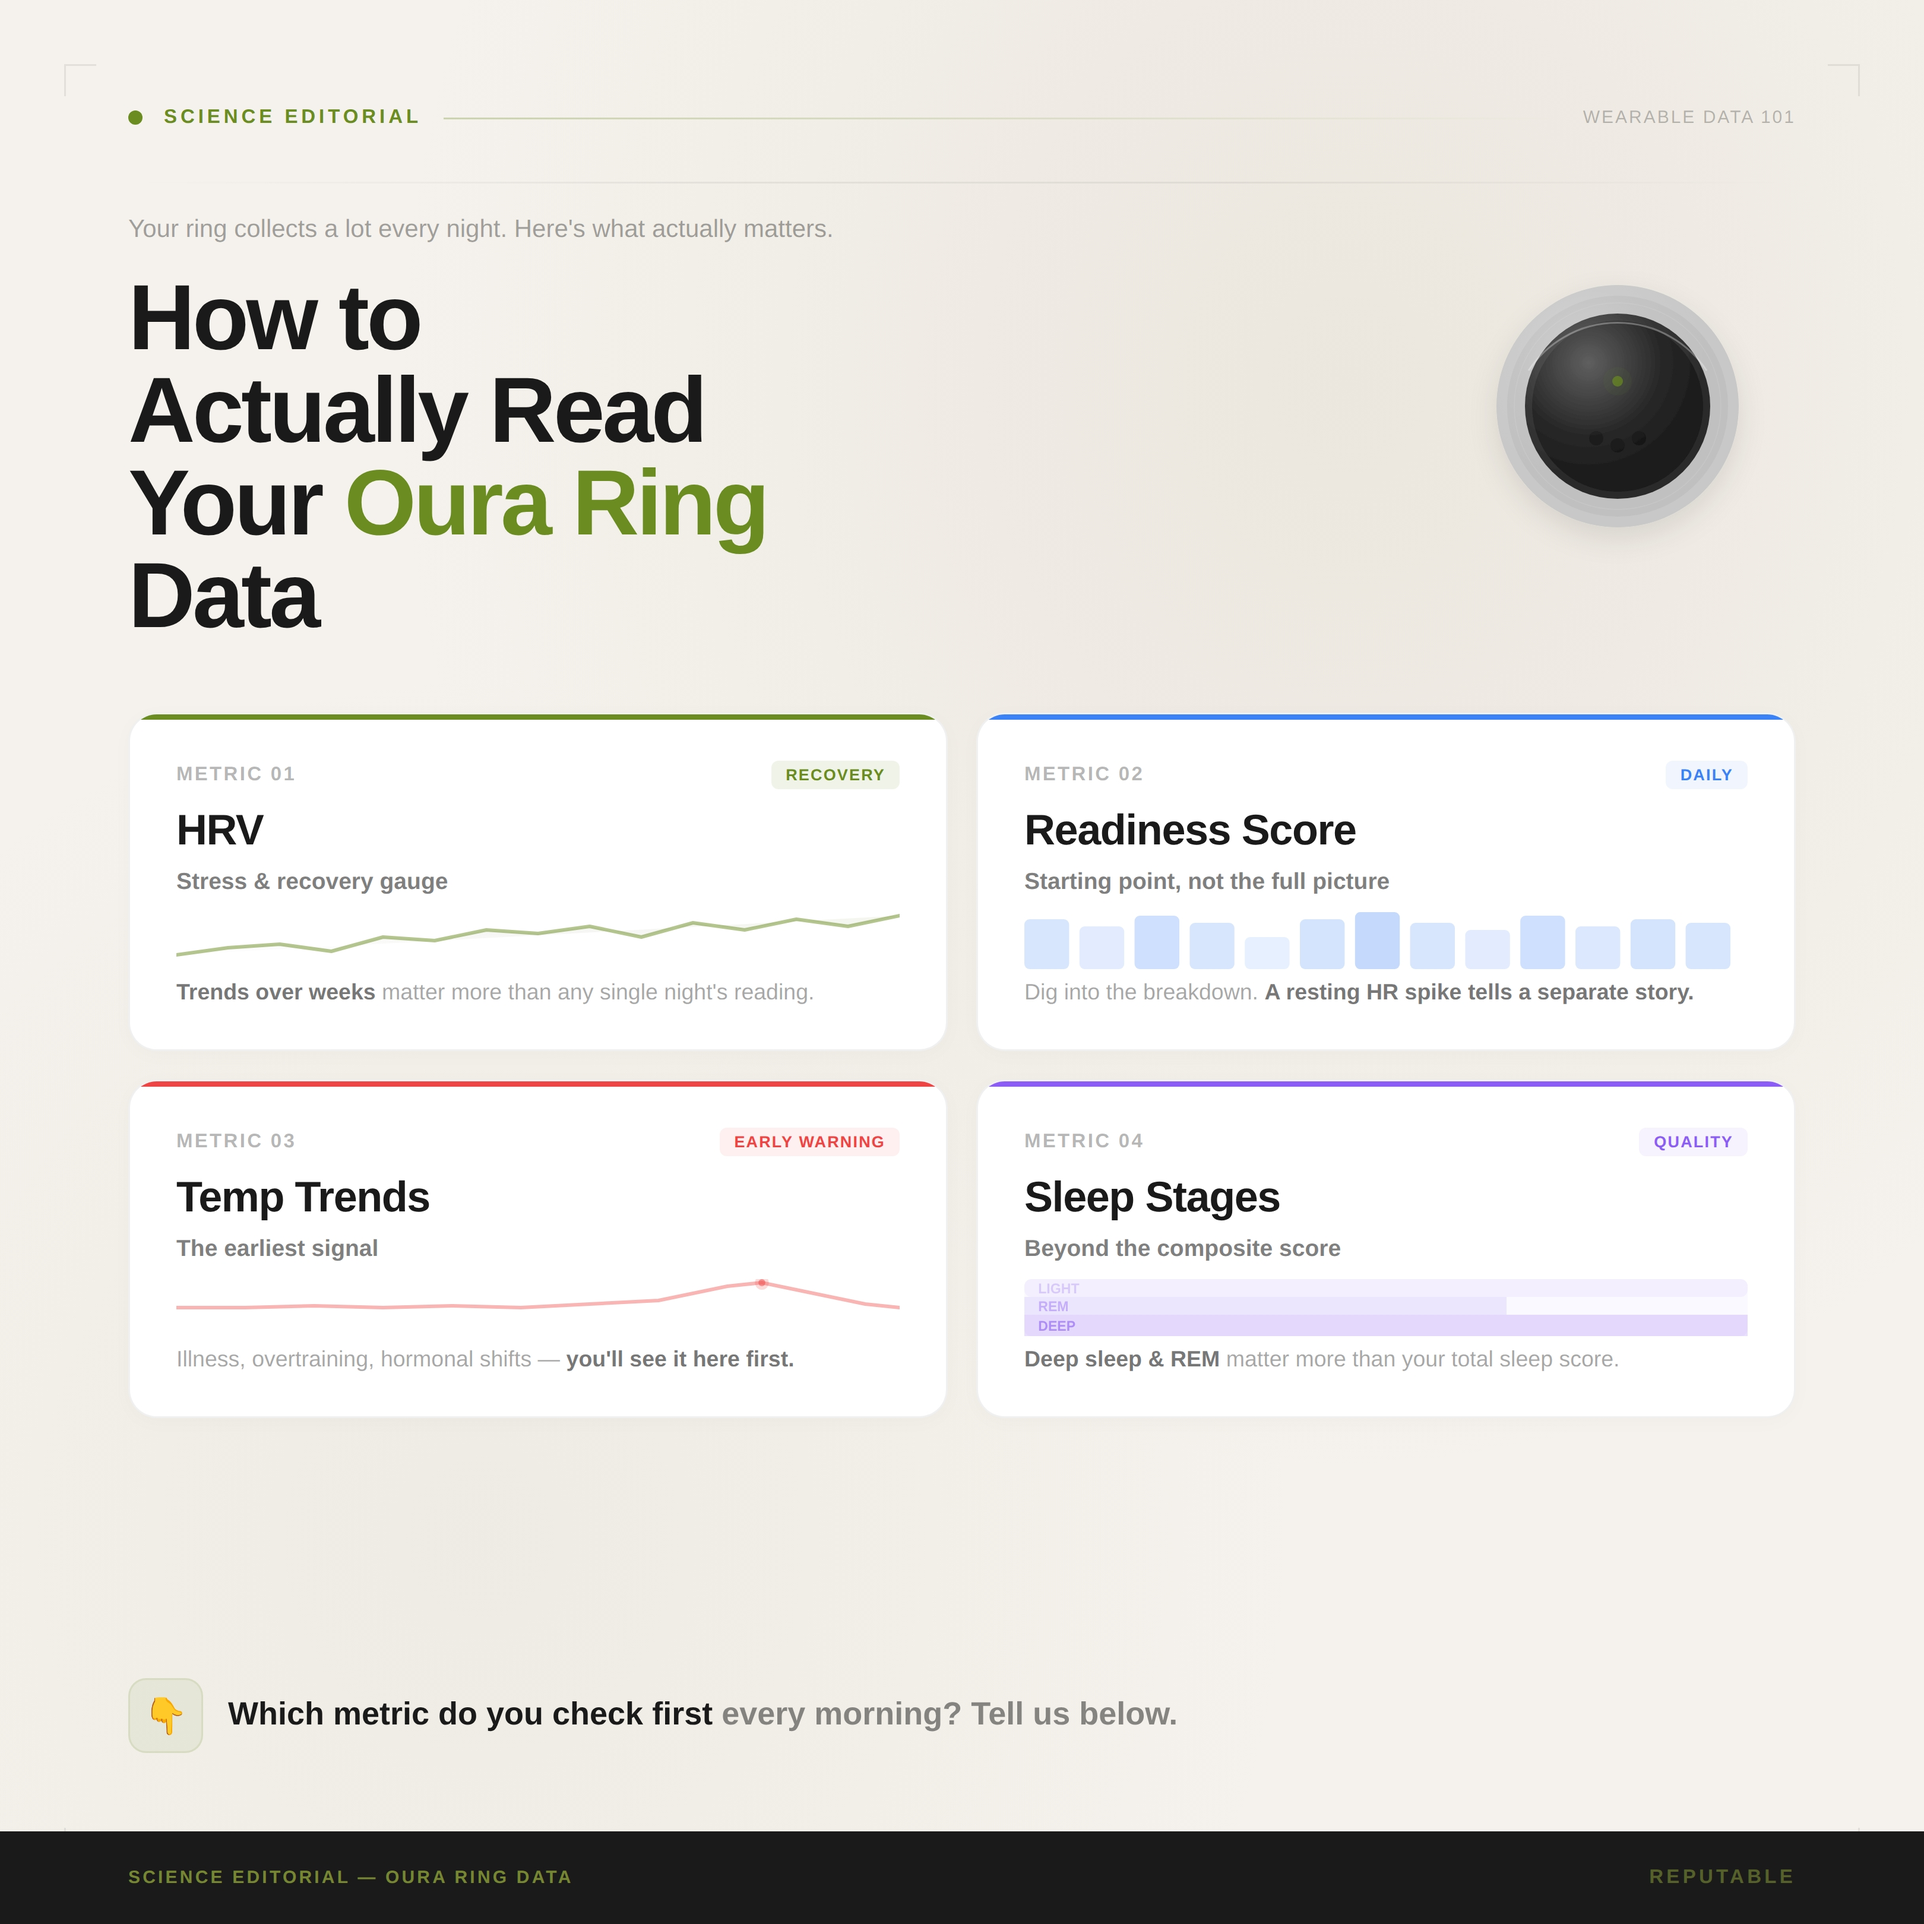
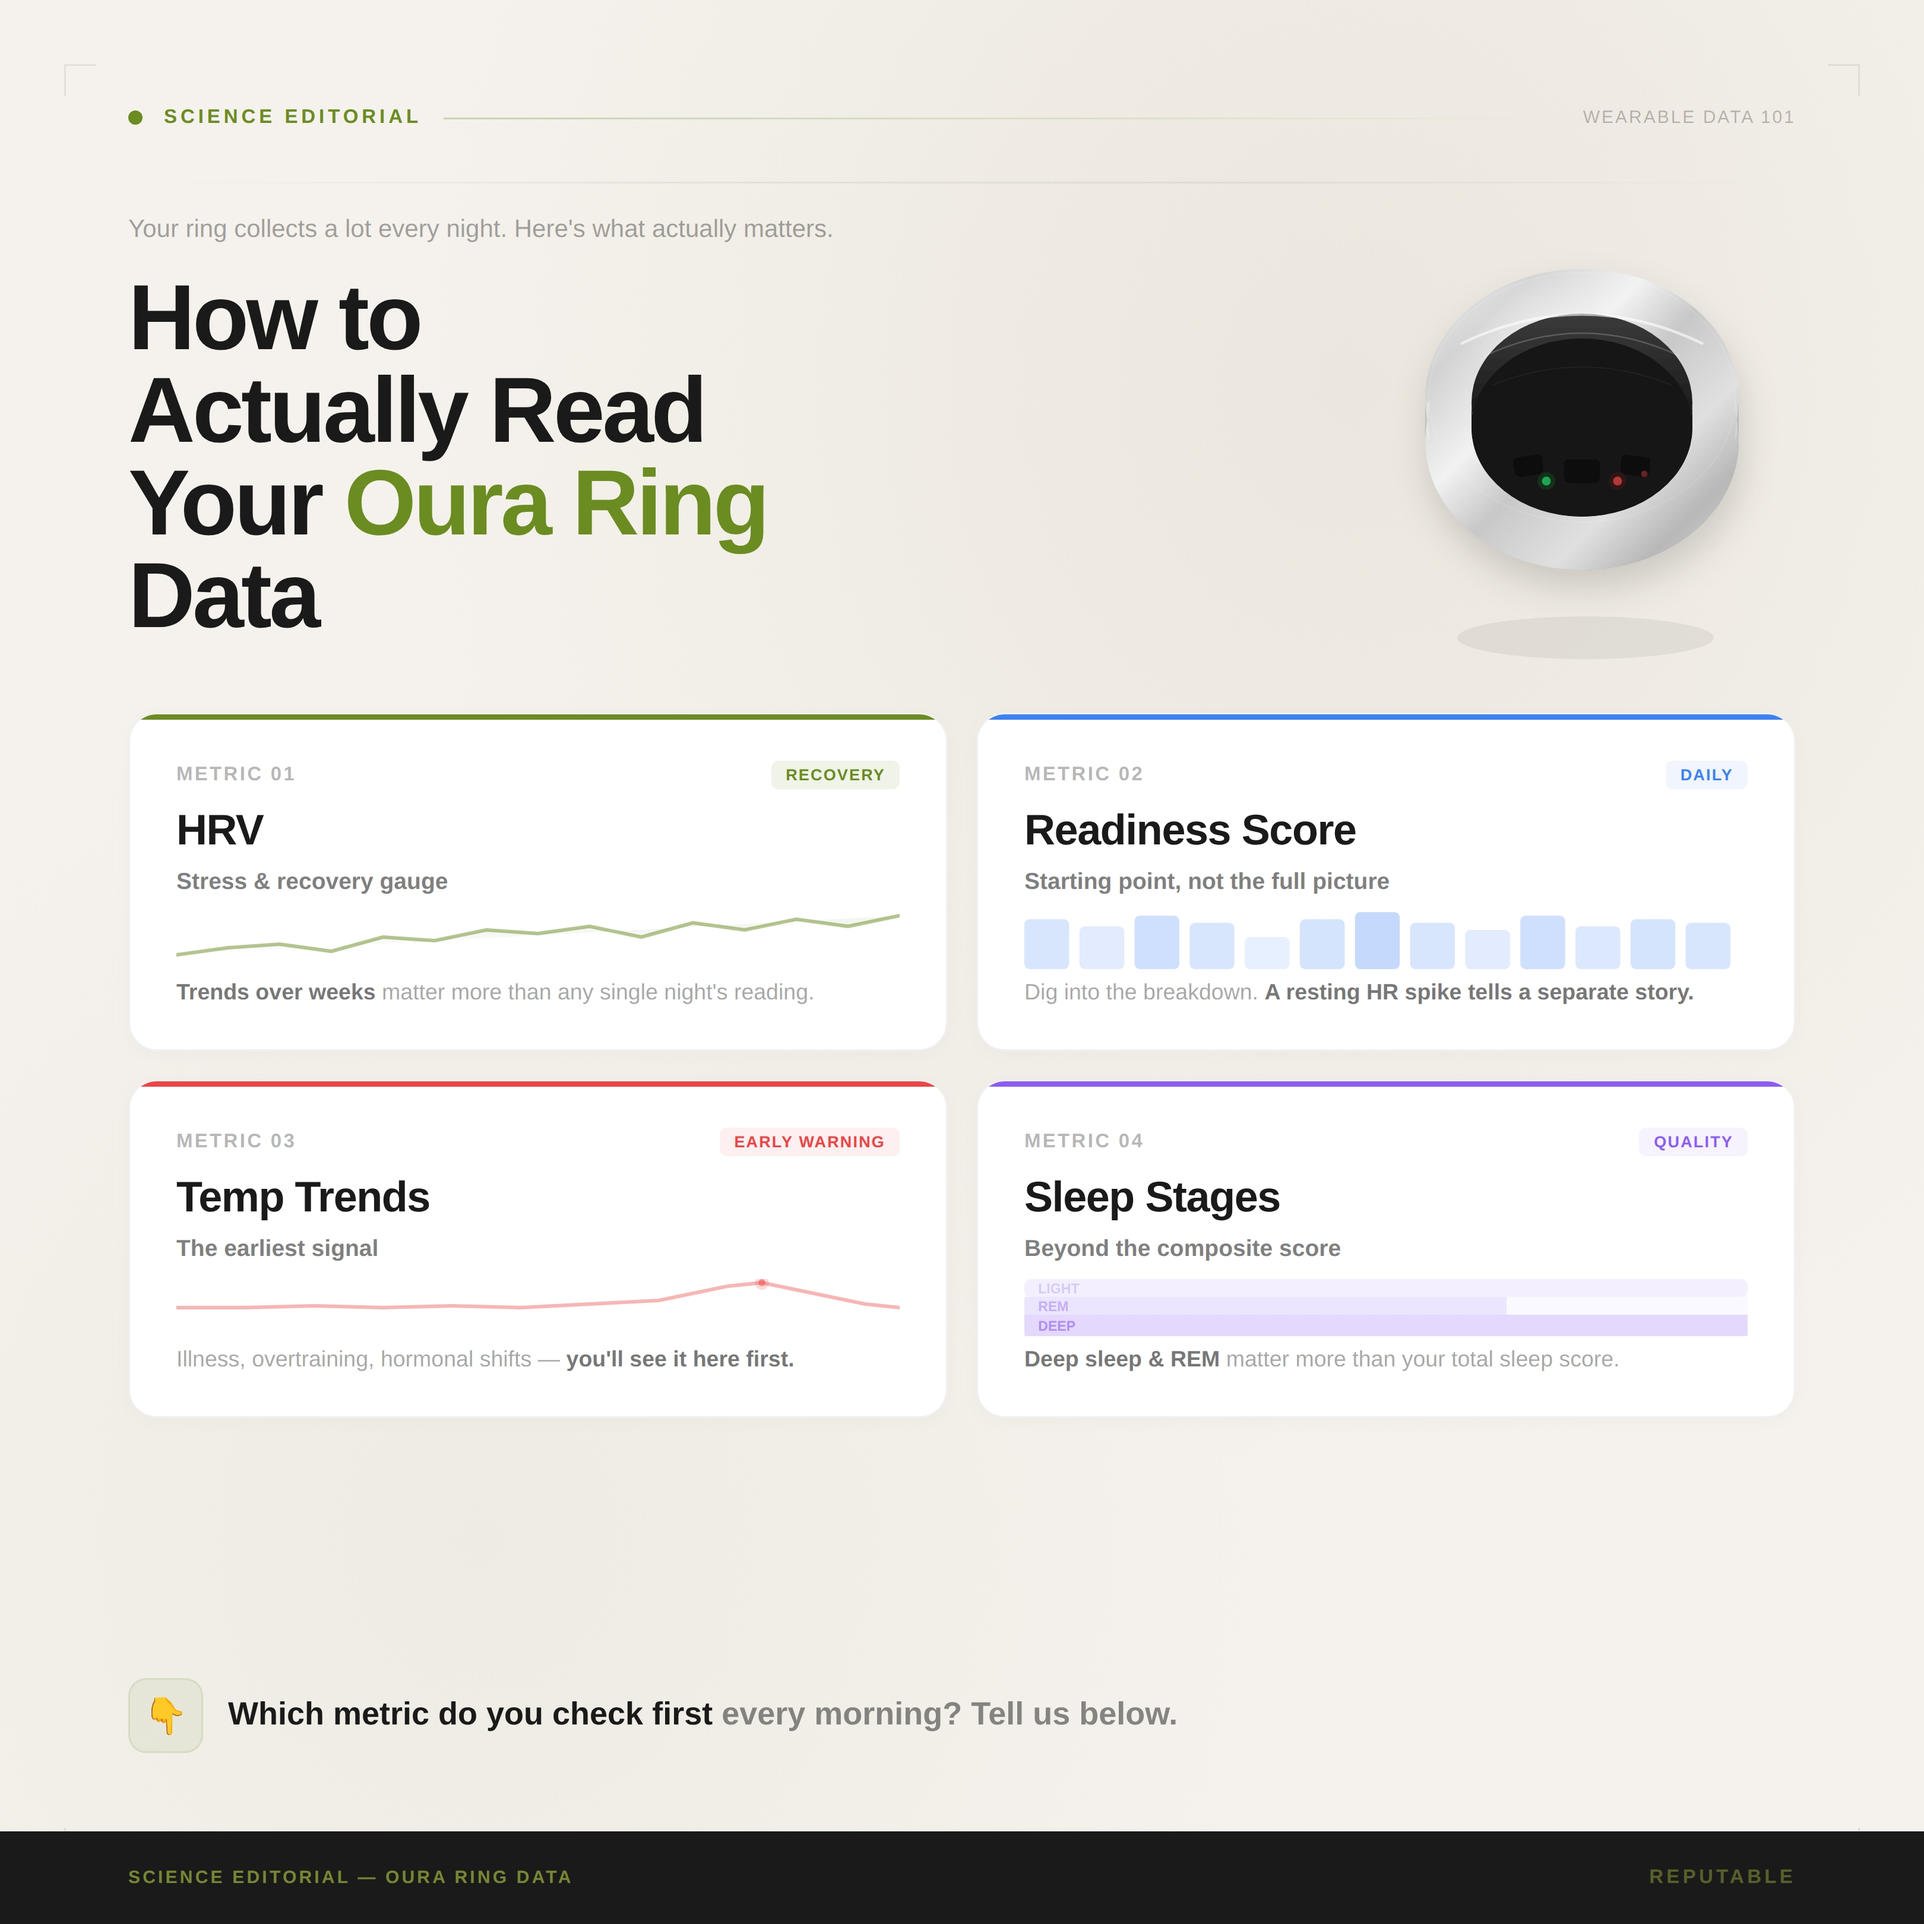
Redesign Oura Ring SVG with 3D tilted perspective
Replaced flat top-down ring with proper 3D perspective view: glossy
silver/white band with depth, visible inner channel, dark PPG sensor
windows, green/red LED indicators, highlight arcs, and drop shadow.

https://claude.ai/code/session_01TfrrBTyPYsf3Z7Zsrx7aQ5

Changed region(s): [[0.7481, 0.1247, 0.904, 0.3117]]

diff --git a/oura-ring-post.html b/oura-ring-post.html
@@ -124,12 +124,12 @@
   /* ── Ring illustration ────────────────────────── */
   .ring-wrap {
     flex-shrink: 0;
-    width: 200px;
-    height: 200px;
+    width: 240px;
+    height: 260px;
     display: flex;
     align-items: center;
     justify-content: center;
-    margin-top: 10px;
+    margin-top: 0px;
   }
 
   /* ── Metric cards ─────────────────────────────── */
@@ -314,66 +314,134 @@
       <div class="headline">How to<br>Actually Read<br>Your <span class="green">Oura Ring</span><br>Data</div>
     </div>
 
-    <!-- Oura Ring SVG illustration -->
+    <!-- Oura Ring SVG illustration — 3D perspective view -->
     <div class="ring-wrap">
-      <svg width="180" height="180" viewBox="0 0 180 180" fill="none" xmlns="http://www.w3.org/2000/svg">
+      <svg width="240" height="260" viewBox="0 0 240 260" fill="none" xmlns="http://www.w3.org/2000/svg">
         <defs>
-          <linearGradient id="ringOuter" x1="30" y1="30" x2="150" y2="150">
-            <stop offset="0%" stop-color="#c8c8c8"/>
-            <stop offset="20%" stop-color="#a0a0a0"/>
-            <stop offset="40%" stop-color="#d4d4d4"/>
-            <stop offset="55%" stop-color="#8a8a8a"/>
-            <stop offset="75%" stop-color="#b8b8b8"/>
-            <stop offset="100%" stop-color="#9a9a9a"/>
-          </linearGradient>
-          <linearGradient id="ringInner" x1="50" y1="40" x2="130" y2="140">
+          <!-- Outer band: bright silver/white -->
+          <linearGradient id="outerBand" x1="40" y1="40" x2="200" y2="200" gradientUnits="userSpaceOnUse">
             <stop offset="0%" stop-color="#e8e8e8"/>
-            <stop offset="30%" stop-color="#c0c0c0"/>
-            <stop offset="60%" stop-color="#d8d8d8"/>
-            <stop offset="100%" stop-color="#a8a8a8"/>
+            <stop offset="15%" stop-color="#d0d0d0"/>
+            <stop offset="35%" stop-color="#f2f2f2"/>
+            <stop offset="50%" stop-color="#c8c8c8"/>
+            <stop offset="70%" stop-color="#e0e0e0"/>
+            <stop offset="85%" stop-color="#b8b8b8"/>
+            <stop offset="100%" stop-color="#d0d0d0"/>
           </linearGradient>
-          <radialGradient id="ringGloss" cx="38%" cy="32%" r="50%">
-            <stop offset="0%" stop-color="rgba(255,255,255,0.5)"/>
-            <stop offset="60%" stop-color="rgba(255,255,255,0.1)"/>
+
+          <!-- Band side/depth gradient -->
+          <linearGradient id="bandSide" x1="120" y1="20" x2="120" y2="140" gradientUnits="userSpaceOnUse">
+            <stop offset="0%" stop-color="#f0f0f0"/>
+            <stop offset="40%" stop-color="#d8d8d8"/>
+            <stop offset="100%" stop-color="#aaa"/>
+          </linearGradient>
+
+          <!-- Inner channel gradient (dark) -->
+          <linearGradient id="innerChannel" x1="120" y1="60" x2="120" y2="180" gradientUnits="userSpaceOnUse">
+            <stop offset="0%" stop-color="#3a3a3a"/>
+            <stop offset="40%" stop-color="#1e1e1e"/>
+            <stop offset="100%" stop-color="#111"/>
+          </linearGradient>
+
+          <!-- Gloss highlight -->
+          <radialGradient id="glossHighlight" cx="35%" cy="25%" r="45%">
+            <stop offset="0%" stop-color="rgba(255,255,255,0.7)"/>
+            <stop offset="50%" stop-color="rgba(255,255,255,0.2)"/>
             <stop offset="100%" stop-color="rgba(255,255,255,0)"/>
           </radialGradient>
-          <filter id="ringShadow" x="-20%" y="-10%" width="140%" height="140%">
-            <feGaussianBlur in="SourceAlpha" stdDeviation="8" result="blur"/>
-            <feOffset dx="0" dy="6" result="shifted"/>
-            <feFlood flood-color="#000" flood-opacity="0.1" result="color"/>
+
+          <!-- Drop shadow -->
+          <filter id="ringShadow" x="-25%" y="-15%" width="150%" height="160%">
+            <feGaussianBlur in="SourceAlpha" stdDeviation="10" result="blur"/>
+            <feOffset dx="2" dy="10" result="shifted"/>
+            <feFlood flood-color="#000" flood-opacity="0.15" result="color"/>
+            <feComposite in="color" in2="shifted" operator="in" result="shadow"/>
+            <feMerge><feMergeNode in="shadow"/><feMergeNode in="SourceGraphic"/></feMerge>
+          </filter>
+
+          <!-- Sensor window shadow -->
+          <filter id="sensorShadow" x="-50%" y="-50%" width="200%" height="200%">
+            <feGaussianBlur in="SourceAlpha" stdDeviation="1.5" result="blur"/>
+            <feOffset dx="0" dy="1" result="shifted"/>
+            <feFlood flood-color="#000" flood-opacity="0.3" result="color"/>
             <feComposite in="color" in2="shifted" operator="in" result="shadow"/>
             <feMerge><feMergeNode in="shadow"/><feMergeNode in="SourceGraphic"/></feMerge>
           </filter>
         </defs>
 
-        <!-- Ring shadow -->
-        <ellipse cx="90" cy="96" rx="60" ry="14" fill="rgba(0,0,0,0.06)"/>
+        <!-- ═══ GROUND SHADOW ═══ -->
+        <ellipse cx="122" cy="240" rx="72" ry="12" fill="rgba(0,0,0,0.06)"/>
 
-        <!-- Ring body (tilted perspective) -->
+        <!-- ═══ RING BODY — tilted 3D perspective ═══ -->
         <g filter="url(#ringShadow)">
-          <!-- Outer band -->
-          <circle cx="90" cy="90" r="68" fill="url(#ringOuter)"/>
-          <!-- Flat top face -->
-          <circle cx="90" cy="90" r="62" fill="#c0c0c0"/>
-          <!-- Inner channel (darker) -->
-          <circle cx="90" cy="90" r="52" fill="#2a2a2a"/>
-          <!-- Inner surface -->
-          <circle cx="90" cy="90" r="48" fill="#1a1a1a"/>
-          <!-- Sensor bumps on inner surface -->
-          <circle cx="78" cy="108" r="4" fill="#111"/>
-          <circle cx="90" cy="112" r="4" fill="#111"/>
-          <circle cx="102" cy="108" r="4" fill="#111"/>
-          <!-- Outer ring gloss -->
-          <circle cx="90" cy="90" r="68" fill="url(#ringGloss)" opacity="0.6"/>
-          <!-- Top highlight arc -->
-          <path d="M 40,70 A 60,60 0 0,1 140,70" stroke="rgba(255,255,255,0.3)" stroke-width="1" fill="none"/>
-          <!-- Subtle bevel line -->
-          <circle cx="90" cy="90" r="58" stroke="rgba(255,255,255,0.1)" stroke-width="0.5" fill="none"/>
-        </g>
 
-        <!-- LED glow (green) -->
-        <circle cx="90" cy="76" r="3" fill="#6a8c20" opacity="0.7"/>
-        <circle cx="90" cy="76" r="8" fill="#6a8c20" opacity="0.08"/>
+          <!-- == OUTER BAND (bottom half visible — ring thickness) == -->
+          <!-- Back rim visible through the tilt -->
+          <ellipse cx="120" cy="105" rx="88" ry="72" fill="url(#outerBand)"/>
+
+          <!-- Band thickness / depth strip (visible below top face) -->
+          <path d="M 32,105 A 88,72 0 0,0 208,105 L 208,130 A 88,72 0 0,1 32,130 Z"
+                fill="url(#bandSide)"/>
+          <!-- Band bottom edge -->
+          <ellipse cx="120" cy="130" rx="88" ry="72" fill="url(#outerBand)"/>
+
+          <!-- == TOP FACE of the band (the flat silver ring face) == -->
+          <ellipse cx="120" cy="105" rx="88" ry="72" fill="url(#outerBand)"/>
+
+          <!-- Top face lighter overlay -->
+          <ellipse cx="120" cy="105" rx="88" ry="72" fill="url(#glossHighlight)" opacity="0.5"/>
+
+          <!-- == INNER HOLE — dark channel == -->
+          <!-- Inner opening (top) -->
+          <ellipse cx="120" cy="108" rx="62" ry="50" fill="url(#innerChannel)"/>
+
+          <!-- Inner wall depth visible (the channel depth) -->
+          <path d="M 58,108 A 62,50 0 0,0 182,108 L 182,122 A 62,50 0 0,1 58,122 Z"
+                fill="#1a1a1a"/>
+
+          <!-- Inner bottom surface (what sensors sit on) -->
+          <ellipse cx="120" cy="122" rx="62" ry="50" fill="#141414"/>
+
+          <!-- ═══ SENSOR WINDOWS (dark rectangles on inner surface) ═══ -->
+          <g filter="url(#sensorShadow)">
+            <!-- Center sensor (largest — PPG) -->
+            <rect x="110" y="140" width="20" height="12" rx="2.5" fill="#0a0a0a" opacity="0.9"/>
+            <!-- Left sensor -->
+            <rect x="82" y="138" width="16" height="10" rx="2" fill="#0a0a0a" opacity="0.85" transform="rotate(-8, 90, 143)"/>
+            <!-- Right sensor -->
+            <rect x="142" y="138" width="16" height="10" rx="2" fill="#0a0a0a" opacity="0.85" transform="rotate(8, 150, 143)"/>
+          </g>
+
+          <!-- ═══ LED INDICATORS ═══ -->
+          <!-- Green LED (left of center sensor) -->
+          <circle cx="100" cy="152" r="2.5" fill="#22c55e" opacity="0.8"/>
+          <circle cx="100" cy="152" r="5" fill="#22c55e" opacity="0.15"/>
+          <!-- Red LED (right of center sensor) -->
+          <circle cx="140" cy="152" r="2.5" fill="#ef4444" opacity="0.7"/>
+          <circle cx="140" cy="152" r="5" fill="#ef4444" opacity="0.12"/>
+          <!-- IR LED (far right, dimmer) -->
+          <circle cx="155" cy="148" r="1.8" fill="#ef4444" opacity="0.4"/>
+
+          <!-- ═══ OUTER SURFACE DETAILS ═══ -->
+          <!-- Top rim highlight arc (sharp gloss reflection) -->
+          <path d="M 52,75 Q 120,42 188,75" stroke="rgba(255,255,255,0.6)" stroke-width="1.5" fill="none"/>
+
+          <!-- Secondary reflection arc -->
+          <path d="M 65,82 Q 120,56 175,82" stroke="rgba(255,255,255,0.2)" stroke-width="0.8" fill="none"/>
+
+          <!-- Subtle edge bevel -->
+          <ellipse cx="120" cy="105" rx="86" ry="70" stroke="rgba(255,255,255,0.15)" stroke-width="0.5" fill="none"/>
+
+          <!-- Band side highlight (left edge catch) -->
+          <path d="M 34,108 Q 32,118 34,128" stroke="rgba(255,255,255,0.25)" stroke-width="1.5" fill="none" stroke-linecap="round"/>
+
+          <!-- Band side highlight (right edge) -->
+          <path d="M 206,108 Q 208,118 206,128" stroke="rgba(255,255,255,0.15)" stroke-width="1" fill="none" stroke-linecap="round"/>
+
+          <!-- Inner rim highlight (top edge of inner channel) -->
+          <path d="M 70,98 Q 120,78 170,98" stroke="rgba(255,255,255,0.08)" stroke-width="0.5" fill="none"/>
+
+        </g>
       </svg>
     </div>
   </div>
